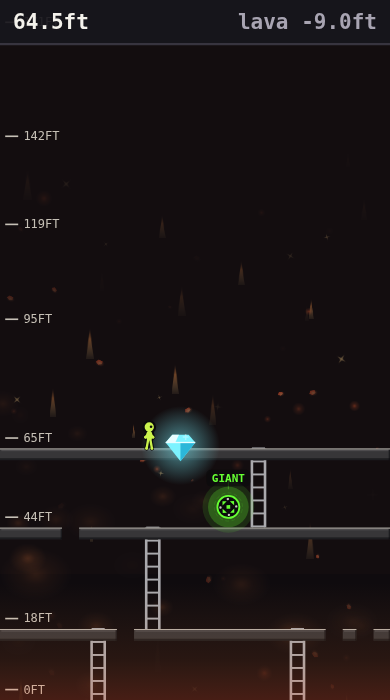
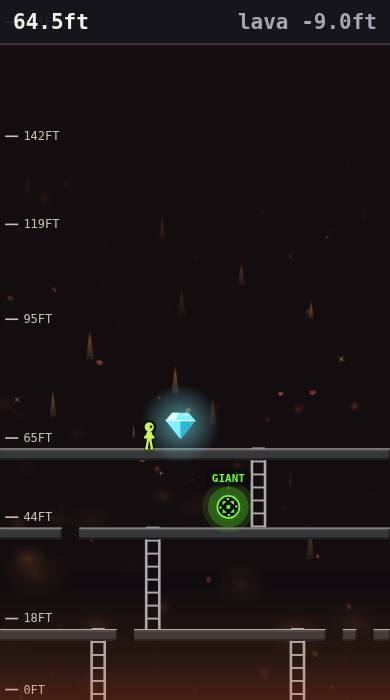
Draw the summit diamond hovering above the floor
Its point dipped into the floor slab. It now sits a few pixels over the
surface and bobs upward only. Rendering only; the touch area is unchanged.

Claude-Session: https://claude.ai/code/session_01BaBBdBXacUnpXmSpnJEYQc

Changed region(s): [[0.3692, 0.54, 0.5538, 0.69]]

diff --git a/app/src/components/Game/paintClimbFrame.ts b/app/src/components/Game/paintClimbFrame.ts
@@ -358,7 +358,7 @@ export function paintClimbFrame(
   const diamond = diamondFor(tower);
   if (diamond !== null && diamond.y >= yLow && diamond.y <= yHigh) {
     const touched = player?.status === "finished";
-    drawSummitDiamond(ctx, sx(diamond.x), sy(diamond.y), sizePxPerM, ui, state.tick, reducedMotion, touched);
+    drawSummitDiamond(ctx, sx(diamond.x), sy(diamond.floorY), sizePxPerM, ui, state.tick, reducedMotion, touched);
   }
 
   for (const pu of state.powerUps) {
@@ -831,14 +831,15 @@ function diamondFor(tower: TowerSpec): SummitDiamond | null {
 }
 
 /**
- * The glowing diamond that ends a level, centred on (cx, cy): a cut gem with
- * a pulsing halo, bobbing gently. Once the local climber has touched it, it
+ * The glowing diamond that ends a level, hovering over the summit floor whose
+ * surface is at screen y `floorTop`: a cut gem with a pulsing halo, bobbing
+ * gently. Once the local climber has touched it, it
  * flares and stops bobbing.
  */
 function drawSummitDiamond(
   ctx: PaintCtx,
   cx: number,
-  cy: number,
+  floorTop: number,
   pxPerM: number,
   ui: number,
   tick: number,
@@ -847,9 +848,10 @@ function drawSummitDiamond(
 ): void {
   // Sized to the touch reach, so what you see is what you have to reach.
   const r = Math.max(12 * ui, pxPerM * SUMMIT_DIAMOND_GRAB_X * 0.75);
-  const bob = reducedMotion || touched ? 0 : Math.sin(tick * 0.08) * r * 0.12;
+  // Hovers over the floor and only bobs upward, so its point never dips into the slab.
+  const bob = reducedMotion || touched ? 0 : (0.5 + 0.5 * Math.sin(tick * 0.08)) * r * 0.25;
   const pulse = reducedMotion ? 0.5 : 0.5 + 0.5 * Math.sin(tick * 0.12);
-  const y = cy + bob;
+  const y = floorTop - r - 4 * ui - bob;
 
   const haloR = r * (touched ? 3.4 : 2.2 + 0.4 * pulse);
   const halo = ctx.createRadialGradient(cx, y, r * 0.2, cx, y, haloR);
